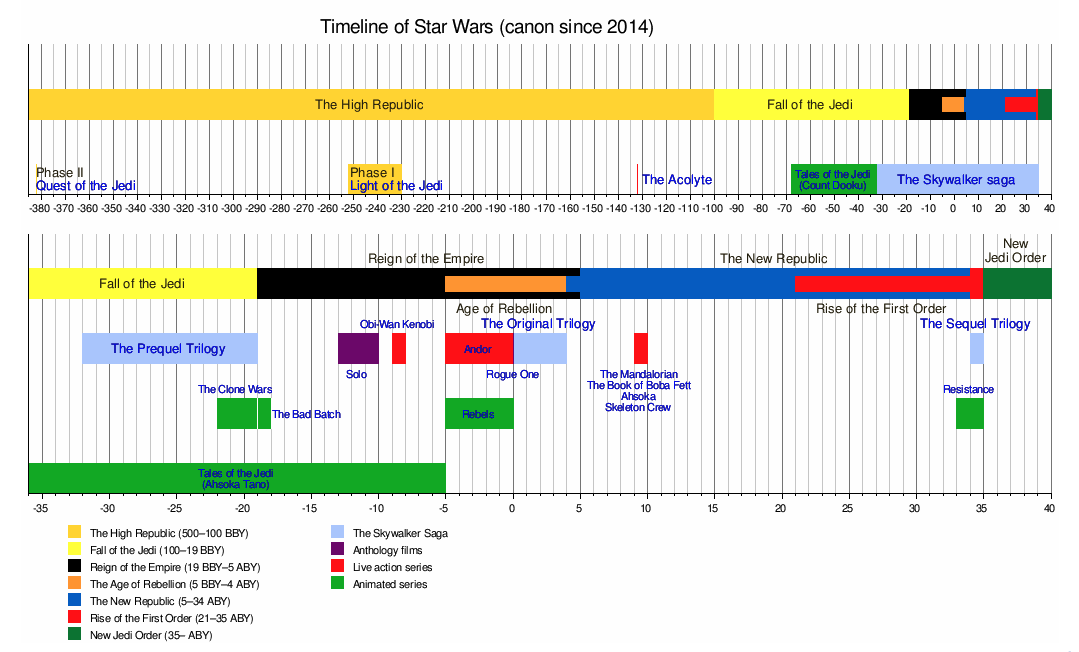
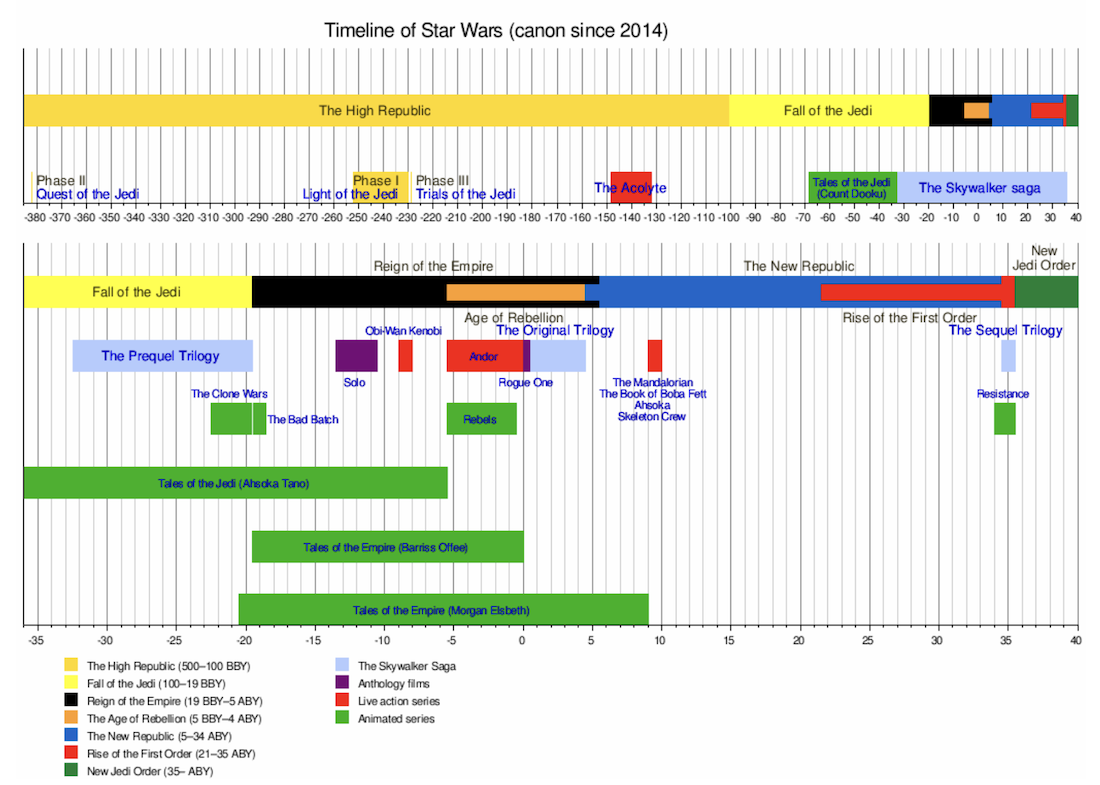
update star wars page

diff --git a/web/source/cine/todo-star-wars/index.md b/web/source/cine/todo-star-wars/index.md
@@ -7,19 +7,29 @@ author: neverbot
 date: 2023-10-16 17:39:25
 ---
 
+> Este artículo se irá ampliando sobre la marcha. Puedes volver aquí dentro de un tiempo y ver qué se ha añadido.
+
 Una lista cronológica, ordenada según los acontecimientos dentro del mundo de Star Wars.
 
 Algunas de las cosas de esta lista estarán marcadas como {% badge "orange" "Legacy" %}, lo que significa que _la nueva oficialidad_ de Disney ya no las considera canónicas, pero yo sí, y aquí las cosas son como yo quiero. Esto es el **canon neverbot**.
 
-![Timeline Star Wars de la Wikipedia](./index/star-wars-timeline-wikipedia-4924135.png)
+![Timeline Star Wars de la Wikipedia](./index/star-wars-timeline-wikipedia.png)
 
-*[Wikipedia](https://en.wikipedia.org/wiki/Star_Wars#Fictional_timeline): dónde va cada cosa desde 2014, fecha de creación del nuevo canon Disney.*{.center}
+*[Timeline en la Wikipedia](https://en.wikipedia.org/wiki/Star_Wars#Fictional_timeline): dónde va cada cosa desde 2014, fecha de creación del nuevo canon Disney.*{.center}
 
 ## Timeline
 
-Actualizado a Mayo de 2024.
+Actualizado a Enero de 2025.
 
 {% timeline %}
+
+{% year "132 B" "The Acolyte" "2024, Tv (1 temporada, 8 capítulos)" "" %} 
+
+![663653eacba87](./index/663653eacba87.jpg){.left width=150px}{% badge "lightgreen" "[tvdb](https://thetvdb.com/series/the-acolyte)"%} {% badge "gold" "[imdb](https://www.imdb.com/title/tt12262202/)"%}
+
+*Ambientada al final de la era de la Alta República, aproximadamente cien años antes de los eventos de “La Amenaza Fantasma”, y sigue a un Maestro Jedi que investiga una serie de crímenes, lo que lo lleva a enfrentarse con una antigua padawan y a descubrir oscuros secretos relacionados con el surgimiento del lado oscuro.*
+
+{% endyear %}
 
 {% year "36-19 B" "Star Wars: Tales of the Jedi" "2022, Tv, Animación (1 temporada, 6 capítulos)" %}
 ![img](./index/k3nWQb0E8mLSR8acSkJP78VRVMv.jpg){.left width=150px}*Adéntrate en las vidas de dos Jedi completamente diferentes, antes de las precuelas cinematográficas: Ahsoka Tano y el Conde Dooku.*
@@ -66,6 +76,14 @@ Los episodios están localizados en distintas épocas, desde el final de la tril
 ![img](./index/5Q6z9bjy8dHKA5T8kNmCd8hj6Gl.jpg){.left width=150px}*Serie de animación que sigue a un grupo de soldados clon con habilidades únicas conocidos como la Clone Force 99 "The Bad Batch", después de los eventos de "Star Wars: The Clone Wars", mientras tratan de encontrar su lugar en una galaxia en cambio tras el final de las Guerras Clon y la ascensión del Imperio Galáctico.*
 {% endyear %}
 
+{% year "15 BBY" "Star Wars: Droids" "1985, Tv, Animación (1 temporada, 13 capítulos más 2 especiales)" %}
+![img](./index/star-wars-droids.jpg){.left width=150px}{% badge "orange" "Legacy" %} {% badge "lightgreen" "[tvdb](https://thetvdb.com/series/droids)" %}
+
+Me niego a admitir que las series de animacion de los años 80 no sean canónicas. Esta tambien la podemos encontrar con el título: *Star Wars: Droids - The Adventures of R2-D2 and C-3PO*.
+
+*Seguimos las aventuras de los icónicos droides R2-D2 y C-3PO antes de unirse a Luke Skywalker. Ambientada entre los eventos de las precuelas y la trilogía original, la serie muestra a los droides mientras viajan por la galaxia cambiando de dueños y enfrentándose a diversos villanos. Cada arco narrativo introduce nuevos aliados y enemigos, explorando historias más ligeras y orientadas al público infantil. La serie destaca por su tono humorístico y por expandir el universo de Star Wars con personajes y mundos originales.*
+{% endyear %}
+
 {% year "13-10 B" "Solo: A Star Wars Story" "2005, Cine" %}
 ![img](./index/278668-solo-a-star-wars-story-0-230-0-345-crop.jpg){.left width=150px}*Seguimos la juventud de Han Solo mientras escapa de su planeta natal, Corellia, y se involucra en actividades criminales en el inframundo galáctico, conociendo a Chewbacca y Lando Calrissian, y consiguiendo su icónica nave, el Halcón Milenario.*
 {% endyear %}
@@ -79,7 +97,9 @@ Los episodios están localizados en distintas épocas, desde el final de la tril
 {% endyear %}
 
 {% year "5 BBY" "Andor" "2022, Tv (1 temporada, 12 capítulos)" %}
-![img](./index/59SVNwLfoMnZPPB6ukW6dlPxAdI.jpg){.left width=150px}*Seguimos al personaje de Cassian Andor, interpretado por Diego Luna, quien previamente apareció en la película "Rogue One: A Star Wars Story", cinco años antes de los eventos de "Rogue One", sumergiéndonos en el mundo del espionaje y la resistencia contra el Imperio Galáctico.*
+![img](./index/59SVNwLfoMnZPPB6ukW6dlPxAdI.jpg){.left width=150px}{% badge "lightgreen" "[tvdb](https://thetvdb.com/series/andor)" %}
+
+*Seguimos al personaje de Cassian Andor, interpretado por Diego Luna, quien previamente apareció en la película "Rogue One: A Star Wars Story", cinco años antes de los eventos de "Rogue One", sumergiéndonos en el mundo del espionaje y la resistencia contra el Imperio Galáctico.*
 {% endyear %}
 
 {% year "0 BBY" "Rogue One: A Star Wars Story" "2005, Cine" %}
@@ -88,6 +108,15 @@ Los episodios están localizados en distintas épocas, desde el final de la tril
 
 {% year "0 BBY" "Episode IV A New Hope" "1977, Cine" %}
 ![img](./index/2706-star-wars-0-230-0-345-crop.jpg){.left width=150px}*Primera película de la trilogía original de Star Wars. Luke Skywalker se une a la Alianza Rebelde para enfrentarse al malvado Imperio Galáctico. Con la ayuda de Obi-Wan Kenobi, la Princesa Leia y Han Solo, Luke se embarca en un viaje para destruir la Estrella de la Muerte y restaurar la paz en la galaxia.*
+{% endyear %}
+
+{% year "3 ABY" "Star Wars: Ewoks" "1985, Tv (2 temporadas, 35 episodios más 2 especiales)" %}
+![Star Wars: Ewoks](./index/star-wars-ewoks.jpg){.left width=150px}{% badge "orange" "Legacy" %} {% badge "lightgreen" "[tvdb](https://thetvdb.com/series/ewoks)" %}
+
+Me niego a admitir que las series de animacion de los años 80 no sean canónicas. Esta tambien la podemos encontrar con el título más simplificado: *Ewoks*.
+
+*Las aventuras de los ewoks, los adorables habitantes del bosque de la luna de Endor, antes de los eventos de “El Retorno del Jedi”. La historia se centra en Wicket W. Warrick y sus amigos, quienes se enfrentan a desafíos mágicos, conflictos con otras tribus y peligros ambientales mientras protegen su hogar. Con un tono ligero y humorístico, la serie está orientada a un público infantil, destacando valores como la amistad, la valentía y la cooperación, y ofreciendo una visión más profunda de la cultura y el mundo de los ewoks.*
+
 {% endyear %}
 
 {% year "3 ABY" "Episode V The Empire Strikes Back" "1980, Cine" %}
@@ -100,6 +129,14 @@ Los episodios están localizados en distintas épocas, desde el final de la tril
 
 {% year "9 ABY" "The Mandalorian (_temporadas 1, 2_)" "2019, Tv (2 temporadas, 16 capítulos)" %}
 ![img](./index/eU1i6eHXlzMOlEq0ku1Rzq7Y4wA.jpg){.left width=150px}*Sigue las aventuras de un cazarrecompensas conocido simplemente como "El Mandaloriano" o "Mando", miembro de una antigua orden de guerreros conocidos por su código de honor. Mando es contratado para rastrear y capturar a un misterioso niño alienígena de la misma especie que Yoda. A medida que Mando se involucra en la búsqueda, desarrolla un fuerte vínculo con el niño y se convierte en su protector. En la segunda temporada, Mando se embarca en una misión para encontrar al hogar del niño, buscando a otros mandalorianos que puedan ayudarlo.*
+{% endyear %}
+
+{% year "9 ABY" "Skeleton Crew" "2024, Tv (1 Temporada, 6 capítulos)" "" %} 
+
+![628fe0684eb28](./index/skeleton-crew.jpg){.left width=150px}{% badge "gold" "[imdb](https://www.imdb.com/title/tt20600980/)" %} {% badge "lightgreen" "[tvdb](https://thetvdb.com/series/star-wars-skeleton-crew)"%}
+
+*Seguimos a cuatro niños que, tras realizar un misterioso descubrimiento en su aparentemente seguro planeta natal, se pierden en la vasta galaxia. A lo largo de su travesía, se enfrentan a desafíos inesperados y conocen a diversos aliados y enemigos mientras intentan encontrar el camino de regreso a casa.*
+
 {% endyear %}
 
 {% year "9-11 A" "The Book of Boba Fett" "2022, Tv (1 temporada, 7 capítulos)" %}
@@ -122,7 +159,7 @@ Los episodios están localizados en distintas épocas, desde el final de la tril
 ![img](./index/g2mqdMU3jaz6uEosF5aqJgbw7e9-0-230-0-345-crop.jpg){.left width=150px}*Primera película de la tercera trilogía de Star Wars, ambientada décadas después de los eventos de "Return of the Jedi". La película sigue a una nueva generación de personajes mientras se enfrentan a la amenaza de la Primera Orden, sucesora del Imperio Galáctico. La trama se centra en Rey, una chatarrera con un misterioso pasado, Finn, un exsoldado de la Primera Orden en busca de redención, y Poe Dameron, un piloto de la Resistencia. Juntos, se embarcan en una misión para encontrar a Luke Skywalker, el último Jedi, quien ha desaparecido. Mientras tanto, el villano Kylo Ren, seguidor del Lado Oscuro de la Fuerza, busca consolidar su poder y encontrar a Luke.*
 {% endyear %}
 
-{% year "34 ABY" "Star Wars: Resistance (_temporada 2_)" "2019, Tv, Animación (1 temporada, 18 capítulos)" %}
+{% year "34 ABY" "Star Wars: Resistance (_temporada 2_)" "2019, Tv, Animación (1 temporada, 20 capítulos)" %}
 ![img](./index/xul6SG8rar3wkHPY8YusUtxcdlZ.jpg){.left width=150px}*Siguen las aventuras del joven piloto Kazuda Xiono como espía de la Resistencia, en paralelo a los eventos de "The Last Jedi". A medida que la serie avanza, la amenaza de la Primera Orden se vuelve más evidente y Kazuda y sus aliados se ven involucrados en conflictos más peligrosos.*
 {% endyear %}
 
@@ -144,29 +181,51 @@ Los episodios están localizados en distintas épocas, desde el final de la tril
 ![img](./index/220px-StarWarsHS.jpg){.left width=150px}{% badge "orange" "No canon" %}
 {% endyear %}
 
-{% year " " "The Ewok Adventure" "1984, Tv" %}
+{% year "3 ABY" "The Ewok Adventure" "1984, Tv" %}
 ![img](./index/220px-Caravan_bg.jpeg){.left width=150px}{% badge "orange" "No canon" %}
 {% endyear %}
 
-{% year " " "Ewoks: The Battle for Endor" "1985, Tv" %}
+{% year "3 ABY" "Ewoks: The Battle for Endor" "1985, Tv" %}
 ![img](./index/220px-Ilm-ewok2.jpg){.left width=150px}{% badge "orange" "No canon" %}
 {% endyear %}
 
-{% year " " "The Lego Star Wars Holiday Special" "2020, Tv" %}
-![img](./index/220px-The_Lego_Star_Wars_Holiday_Special_poster.jpg){.left width=150px}{% badge "orange" "No canon" %}
-{% endyear %}
-
 {% year " " "Star Wars: Visions (_temporada 1_)" "2021, Tv, Animación (1 temporada, 9 capítulos)" %}
-![img](./index/8yECMpsZ8wAvra4Sow6Bz9WOO5f.jpg){.left width=150px}{% badge "orange" "No canon" %} {% badge "gold" "[imdb](https://www.imdb.com/title/tt13622982/)" %}
+![img](./index/star-wars-visions-1.jpg){.left width=150px}{% badge "orange" "No canon" %} {% badge "gold" "[imdb](https://www.imdb.com/title/tt13622982/)" %} {% badge "lightgreen" "[tvdb](https://thetvdb.com/series/star-wars-visions)"%}
 
-*La primera temporada de “Star Wars: Visions” es una antología  animada, compuesta por nueve cortometrajes, cada uno creado por diferentes estudios de anime japoneses. Cada episodio cuenta una historia independiente con personajes y tramas originales, ofreciendo una reinterpretación que fusiona la estética y la narrativa del anime con el universo de Star Wars.*
+*La primera temporada de “Star Wars: Visions” es una antología animada, compuesta por nueve cortometrajes, cada uno creado por diferentes estudios de anime japoneses. Cada episodio cuenta una historia independiente con personajes y tramas originales, ofreciendo una reinterpretación que fusiona la estética y la narrativa del anime con el universo de Star Wars.*
 
-En verano de 2024 volví a ver esta primera temporada y fui escribiendo mis [impresiones sobre cada uno de los episodios/cortos aquí](/star-wars-visions-temporada-1/).
+En verano de 2024 volví a ver esta primera temporada y fui escribiendo mis impresiones sobre cada uno de los episodios/cortos por aquí:
+
+- [Episodios 1 a 3](/star-wars-visions-temporada-1/).
 
 {% endyear %}
 
 {% year " " "Star Wars: Visions (_temporada 2_)" "2023, Tv, Animación (1 temporada, 9 capítulos)" "last" %}
-![img](./index/6NgLGcOHscy6yLXpKCQi4Mz1yVa.jpg){.left width=150px}{% badge "orange" "No canon" %}
+![img](./index/6NgLGcOHscy6yLXpKCQi4Mz1yVa.jpg){.left width=150px}{% badge "orange" "No canon" %} {% badge "gold" "[imdb](https://www.imdb.com/title/tt13622982/)" %} {% badge "lightgreen" "[tvdb](https://thetvdb.com/series/star-wars-visions)"%}
+
+*La segunda temporada de "Star Wars: Visions" amplía la serie con episodios realizados por estudios de animacion de todo el mundo (España, Irlanda, Chile, Reino Unido, etc). Cada episodio ofrece una visión única del universo de Star Wars, infundiendo la narrativa y la estética de las culturas y estilos propios de cada país y estudio.*
+
+{% endyear %}
+
+{% endtimeline %}
+
+## Lego Star Wars
+
+Esta sección es potencialmente inmensa, existen muchas más series y miniseries de Lego Star Wars de las que parece en un primer momento. Queda pendiente ampliar esta seccion hasta incluirlas todas.
+
+{% timeline %}
+
+{% year " " "The Lego Star Wars Holiday Special" "2020, Tv" %}
+
+![img](./index/220px-The_Lego_Star_Wars_Holiday_Special_poster.jpg){.left width=150px} {% badge "orange" "No canon" %} 
+
+{% endyear %}
+
+{% year " " "Lego Star Wars: Rebuild the Galaxy" "2024, Tv, Animación (1 temporada, 4 capítulos)" "last" %}
+![Lego Star Wars: Rebuild the Galaxy](./index/rebuild-the-galaxy.jpg){.left width=150px}{% badge "orange" "No canon" %} {% badge "gold" "[imdb](https://www.imdb.com/title/tt32306451/)" %} {% badge "lightgreen" "[tvdb](https://thetvdb.com/series/lego-star-wars-rebuild-the-galaxy)"%}
+
+*Miniserie animada de cuatro episodios en la que seguimos a Sig Greebling, un joven pastor de nerfs que, al activar accidentalmente una antigua reliquia Jedi capaz de reescribir la realidad, altera el universo de Star Wars, asignando roles inesperados a personajes conocidos. Acompañado por un Jedi olvidado, Sig emprende una aventura para restaurar el equilibrio en la galaxia.*
+
 {% endyear %}
 
 {% endtimeline %}
@@ -175,23 +234,16 @@ En verano de 2024 volví a ver esta primera temporada y fui escribiendo mis [imp
 
 {% timeline %}
 
-{% year " " "The Acolyte" "2024, Tv" "" %} 
-
-![663653eacba87](./index/663653eacba87.jpg){.left width=150px}[thetvdb.com](https://thetvdb.com/series/the-acolyte).
-
+{% year "5 BBY" "Andor (*temporada 2*)" "2025, Tv" %}
+![img](./index/59SVNwLfoMnZPPB6ukW6dlPxAdI.jpg){.left width=150px}{% badge "lightgreen" "[tvdb](https://thetvdb.com/series/andor)" %}
 {% endyear %}
 
-{% year " " "Skeleton Crew" "2024, Tv" "" %} 
-
-![628fe0684eb28](./index/628fe0684eb28.jpg){.left width=150px}[thetvdb.com](https://thetvdb.com/series/star-wars-skeleton-crew).
-
+{% year " " "Star Wars: Visions (*temporada* 3)" "2025, Tv" %}
+![img](./index/star-wars-visions-1.jpg){.left width=150px}{% badge "orange" "No canon" %} {% badge "lightgreen" "[tvdb](https://thetvdb.com/series/star-wars-visions)" %}
 {% endyear %}
 
-{% year " " "Lego Star Wars: Rebuild the Galaxy" "2024, Tv, Animación" "last" %}
-![lego-star-wars-rebuild-the-galaxy-key-art-poster_c1d4c115](./index/lego-star-wars-rebuild-the-galaxy-key-art-poster_c1d4c115.jpeg){.left width=150px}{% badge "orange" "No canon" %}
-
-[thetvdb.com](https://thetvdb.com/series/lego-star-wars-rebuild-the-galaxy).
-
+{% year " " "The Mandalorian & Grogu" "2026, Cine" "last" %}
+![img](./index/mandalorian-and-grogu.jpg){.left width=150px}{% badge "lightgreen" "[tvdb](https://thetvdb.com/movies/the-mandalorian-and-grogu)" %}
 {% endyear %}
 
 {% endtimeline %}
